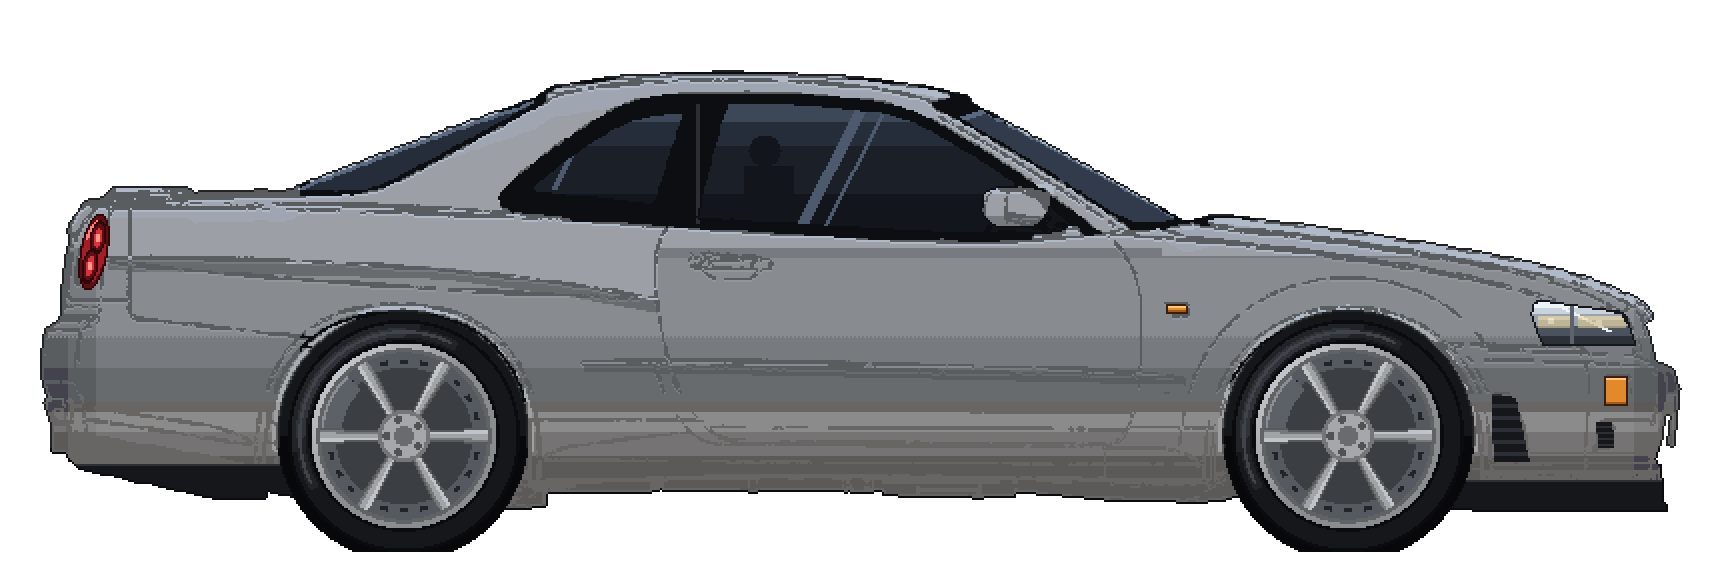
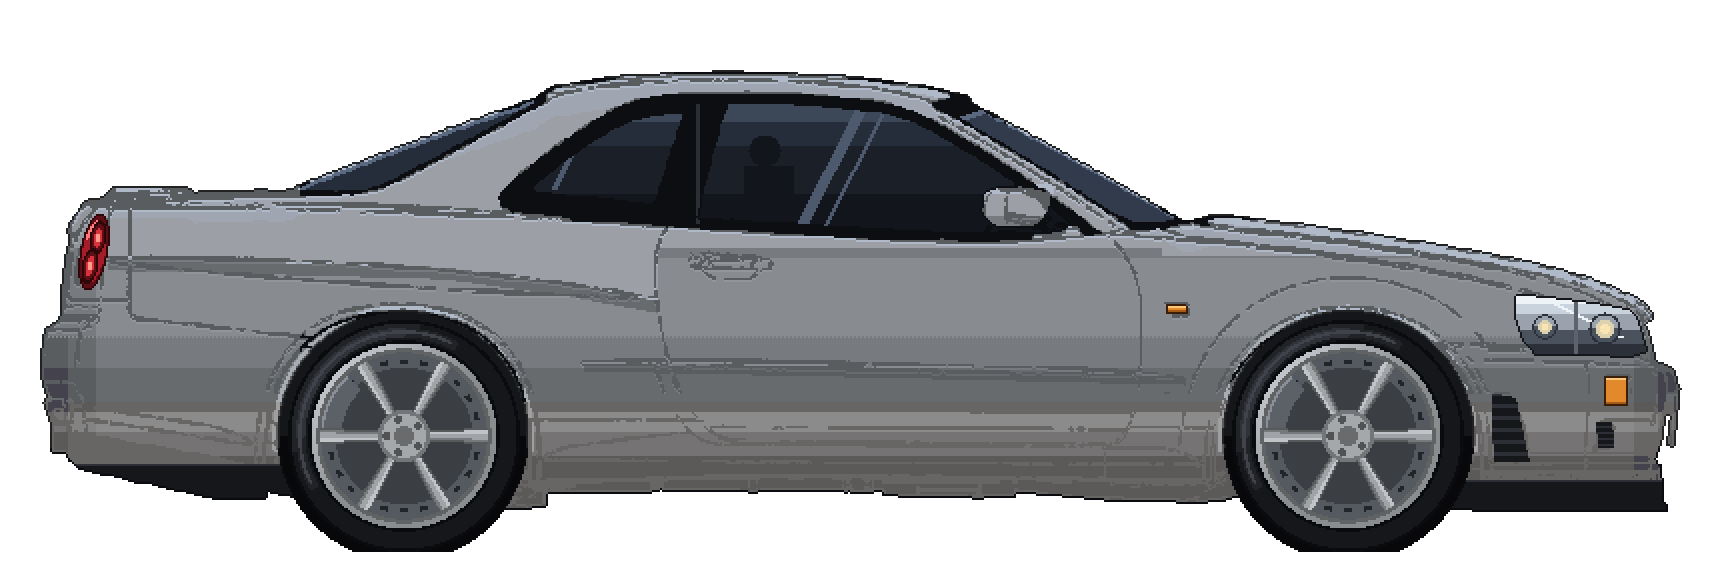
fix(art): фары крупнее с линзами, неон и свет фар с настоящим размытием, кнопка запуска
Фара ≈1,3× крупнее чертёжной: тот же клин, две секции, в каждой — круглая линза
в хромовом отражателе; цвет фар светит в линзах. Неон — трубка под порогом
с размытым ореолом и пятном на земле (canvas blur), медленно дышит. Свет фар ночью —
мягкий конус, гаснущий к концу. Кнопка запуска: название в одну строку, подпись
«не хватает» не больше двух строк. «Палычем» в прогнозе — с большой буквы.

Changed region(s): [[0.875, 0.5, 0.9688, 0.625]]

diff --git a/src/systems/CarRig.js b/src/systems/CarRig.js
@@ -85,6 +85,71 @@ export function wheelKeys(build) {
   };
 }
 
+/** Во сколько раз текстуры свечения детальнее мира: размытие остаётся мягким при любом зуме. */
+const GLOW_K = 4;
+
+/**
+ * Текстура свечения, нарисованная на canvas с настоящим размытием (filter: blur).
+ * Белая — цвет задаёт setTint, режим ADD складывает её со сценой как свет.
+ */
+function glowTexture(scene, key, w, h, draw) {
+  if (scene.textures.exists(key)) return key;
+  const canvas = document.createElement('canvas');
+  canvas.width = Math.ceil(w * GLOW_K);
+  canvas.height = Math.ceil(h * GLOW_K);
+  const ctx = canvas.getContext('2d');
+  ctx.scale(GLOW_K, GLOW_K);
+  draw(ctx);
+  scene.textures.addCanvas(key, canvas);
+  scene.textures.get(key).setFilter(Phaser.Textures.FilterMode.LINEAR);
+  return key;
+}
+
+/** Неон под днищем: яркая трубка, мягкий ореол и световое пятно на земле. */
+function neonTexture(scene) {
+  const W2 = car.size.width + 60;
+  return glowTexture(scene, 'fx_neon', W2, 40, (ctx) => {
+    const x0 = 55;
+    const x1 = W2 - 55;
+    ctx.fillStyle = '#fff';
+    ctx.filter = 'blur(9px)';
+    ctx.globalAlpha = 0.55;
+    ctx.beginPath();
+    ctx.ellipse(W2 / 2, 26, (x1 - x0) / 2 + 14, 7, 0, 0, Math.PI * 2);
+    ctx.fill();
+    ctx.filter = 'blur(3px)';
+    ctx.globalAlpha = 0.8;
+    ctx.fillRect(x0, 17, x1 - x0, 4);
+    ctx.filter = 'none';
+    ctx.globalAlpha = 1;
+    ctx.fillRect(x0 + 2, 18, x1 - x0 - 4, 2);
+  });
+}
+
+/** Луч фары: конус, гаснущий к концу, размытый по краям, и ореол у самой фары. */
+function beamTexture(scene) {
+  return glowTexture(scene, 'fx_beam', 200, 80, (ctx) => {
+    const grad = ctx.createLinearGradient(0, 0, 200, 0);
+    grad.addColorStop(0, 'rgba(255,255,255,0.55)');
+    grad.addColorStop(0.35, 'rgba(255,255,255,0.22)');
+    grad.addColorStop(1, 'rgba(255,255,255,0)');
+    ctx.filter = 'blur(5px)';
+    ctx.fillStyle = grad;
+    ctx.beginPath();
+    ctx.moveTo(4, 36);
+    ctx.lineTo(196, 6);
+    ctx.lineTo(196, 74);
+    ctx.lineTo(4, 44);
+    ctx.closePath();
+    ctx.fill();
+    ctx.filter = 'blur(4px)';
+    ctx.fillStyle = 'rgba(255,255,255,0.9)';
+    ctx.beginPath();
+    ctx.arc(8, 40, 6, 0, Math.PI * 2);
+    ctx.fill();
+  });
+}
+
 export class CarRig extends Phaser.GameObjects.Container {
   /**
    * @param {Phaser.Scene} scene
@@ -108,11 +173,20 @@ export class CarRig extends Phaser.GameObjects.Container {
     // Тень на земле — пиксельный слой (car.shadow.above — сколько его лежит выше земли).
     this.shadow = scene.add.image(-AX, -car.shadow.above, 'car_shadow').setOrigin(0).setScale(TEX);
 
-    // Неон: свечение под днищем.
+    // Неон: трубка под порогом с размытым ореолом и пятном света на земле, медленно дышит.
     this.neon = scene.add
-      .ellipse(0, -3, car.size.width - 50, 10, 0xffffff, 0.75)
+      .image(0, 2, neonTexture(scene))
+      .setOrigin(0.5, 0.65)
+      .setScale(1 / GLOW_K)
       .setBlendMode(Phaser.BlendModes.ADD);
-    scene.tweens.add({ targets: this.neon, alpha: 0.4, duration: 1100, yoyo: true, repeat: -1 });
+    scene.tweens.add({
+      targets: this.neon,
+      alpha: { from: 1, to: 0.72 },
+      duration: 1400,
+      yoyo: true,
+      repeat: -1,
+      ease: 'Sine.easeInOut',
+    });
 
     // Кузов делится на две группы: «за колёсами» (ниши) и «перед колёсами» (всё остальное).
     this.bodyBack = scene.add.container(0, PIVOT_Y, [img('car_wells')]);
@@ -127,19 +201,10 @@ export class CarRig extends Phaser.GameObjects.Container {
       dirt: img('car_dirt'),
     };
     this.beam = scene.add
-      .triangle(
-        car.headlight.x - AX,
-        car.headlight.y - AY - PIVOT_Y,
-        0,
-        0,
-        170,
-        -28,
-        170,
-        28,
-        0xffffff,
-        0.07,
-      )
+      .image(car.headlight.x - AX - 6, car.headlight.y - AY - PIVOT_Y, beamTexture(scene))
       .setOrigin(0, 0.5)
+      .setScale(1 / GLOW_K)
+      .setAlpha(0.5)
       .setBlendMode(Phaser.BlendModes.ADD);
     this.bodyFront = scene.add.container(0, PIVOT_Y, [...Object.values(this.layers), this.beam]);
 
@@ -187,11 +252,11 @@ export class CarRig extends Phaser.GameObjects.Container {
 
     const lightColor = colorOf('headlight', looks.headlight);
     L.headlight.setTint(lightColor);
-    this.beam.setVisible(this.night).setFillStyle(lightColor, 0.07);
+    this.beam.setVisible(this.night).setTint(lightColor);
 
     const neon = colorOf('neon', looks.neon);
     this.neon.setVisible(neon !== null);
-    if (neon !== null) this.neon.setFillStyle(neon, 0.75);
+    if (neon !== null) this.neon.setTint(neon);
 
     L.dirt.setVisible(Boolean(dirty));
 

diff --git a/src/scenes/GarageScene.js b/src/scenes/GarageScene.js
@@ -199,7 +199,13 @@ export class GarageScene extends BaseScene {
       className: 'glaunch',
     });
     this.$launchSub = el('span', { class: 'glaunch__sub' });
-    this.$launch.querySelector('.wbtn__label').append(this.$launchSub);
+    // Название — отдельной строкой (обрезается многоточием), под ним — чего не хватает.
+    const label = this.$launch.querySelector('.wbtn__label');
+    label.replaceChildren(
+      el('span', { class: 'glaunch__title', text: this.test.startButton }),
+      this.$launchSub,
+    );
+    this.$launch.title = this.test.startButton;
 
     this.ui.append(
       el('header', { class: 'ui-abs gtop' }, [
@@ -455,7 +461,9 @@ export class GarageScene extends BaseScene {
       el('div', { class: `forecast ${(changed ? next : now).ok ? 'is-ok' : 'is-bad'}` }, [
         el('div', { class: 'forecast__title' }, [
           icon(this.testId === 'trial' ? 'finish' : 'timer'),
-          t('garage.forecastTitle', { test: this.test.name.toLowerCase() }),
+          t('garage.forecastTitle', {
+            test: this.test.name[0].toLowerCase() + this.test.name.slice(1),
+          }),
         ]),
         changed ? el('p', { class: 'forecast__was', text: now.text }) : null,
         el('p', { class: 'forecast__text', text: (changed ? next : now).text }),

diff --git a/src/styles/garage.css b/src/styles/garage.css
@@ -1016,35 +1016,50 @@
   box-shadow: none;
 }
 
+/* Запуск: название — одна строка, подпись «не хватает» — не больше двух строк. */
 .glaunch {
   flex: none;
-  width: 400px;
+  width: 440px;
+  min-width: 0;
   height: 144px;
-  padding: 0 32px;
+  padding: 0 28px;
   justify-content: flex-start;
-  gap: 20px;
+  gap: 18px;
   border-radius: 20px;
-  font-size: 28px;
+  font-size: 26px;
   font-weight: 700;
   white-space: normal;
 }
 
 .glaunch .icon {
-  width: 40px;
-  height: 40px;
+  flex: none;
+  width: 36px;
+  height: 36px;
 }
 
 .glaunch .wbtn__label {
   display: grid;
   gap: 8px;
+  min-width: 0;
   text-align: left;
   text-box: none;
   line-height: 1.15;
 }
 
+.glaunch__title {
+  overflow: hidden;
+  text-overflow: ellipsis;
+  white-space: nowrap;
+}
+
 .glaunch__sub {
+  display: -webkit-box;
+  -webkit-line-clamp: 2;
+  -webkit-box-orient: vertical;
+  overflow: hidden;
   font-size: 17px;
   font-weight: 500;
+  line-height: 1.3;
 }
 
 .glaunch__sub:empty {
